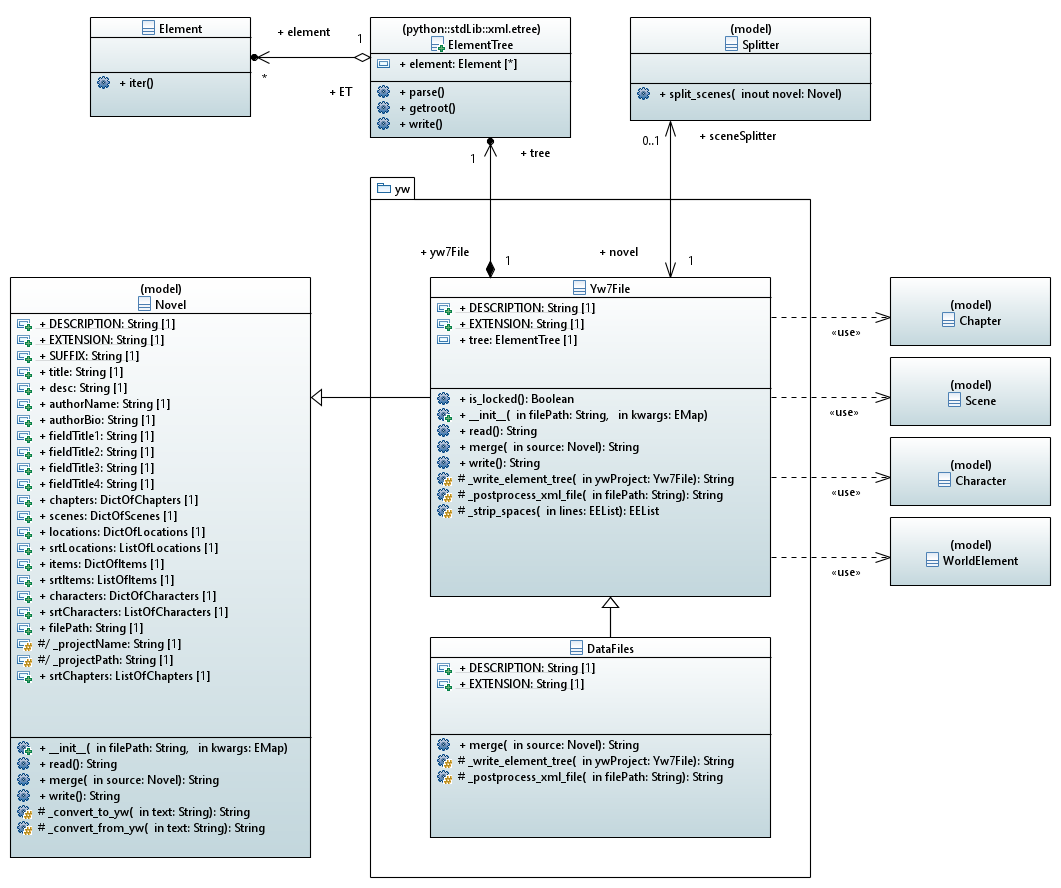
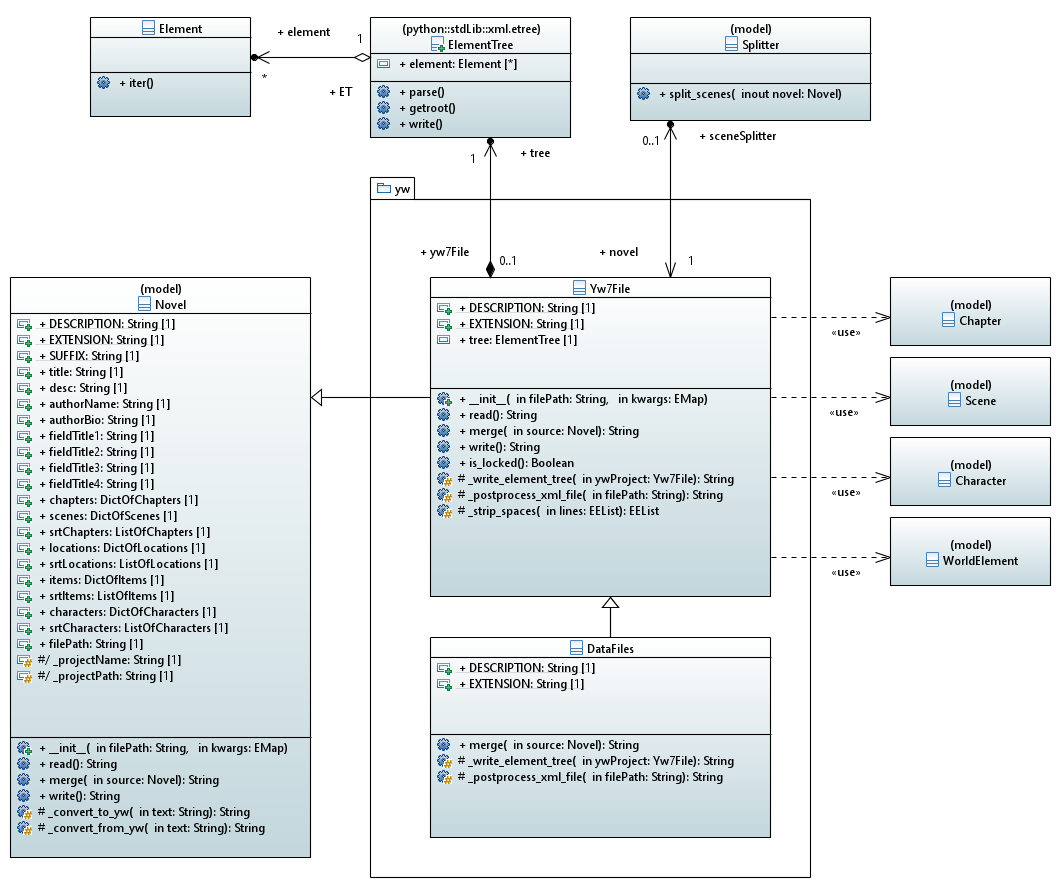
Update docstrings and UML model

Changed region(s): [[0.0311, 0.5777, 0.2177, 0.7905], [0.4354, 0.4257, 0.6532, 0.5473]]

diff --git a/src/pywriter/model/novel.py b/src/pywriter/model/novel.py
@@ -19,18 +19,19 @@ class Novel():
     of the information included in an yWriter project file).
 
     Public methods:
-        read() -- parse the file and get the instance attributes.
-        merge(source) -- copy required attributes of the source object.
-        write() -- write selected properties to the file.
+        read() -- parse the file and get the instance variables.
+        merge(source) -- update instance variables from a source instance.
+        write() -- write instance variables to the file.
 
     Public instance variables:
         title -- title.
         desc -- description in a single string.
-        authorName -- authorName name.
-        fieldTitle1 -- field title 1.
-        fieldTitle2 -- field title 2.
-        fieldTitle3 -- field title 3.
-        fieldTitle4 -- field title 4.
+        authorName -- author's name.
+        author bio -- information about the author.
+        fieldTitle1 -- scene rating field title 1.
+        fieldTitle2 -- scene rating field title 2.
+        fieldTitle3 -- scene rating field title 3.
+        fieldTitle4 -- scene rating field title 4.
         chapters -- chapter instances per ID.
         scenes -- scene instances per ID.
         srtChapters -- the novel's sorted chapter IDs.

diff --git a/src/pywriter/yw/yw7_file.py b/src/pywriter/yw/yw7_file.py
@@ -25,12 +25,12 @@ class Yw7File(Novel):
     """yWriter 7 project file representation.
 
     Public methods: 
-        read() -- Parse the file and store selected properties.
-        merge(novel) -- Copy required attributes of the novel instance.
-        write() -- Write selected properties to the file.
-        is_locked() -- Check whether the yw7 file is locked by yWriter.
+        read() -- parse the yWriter xml file and get the instance variables.
+        merge(source) -- update instance variables from a source instance.
+        write() -- write instance variables to the yWriter xml file.
+        is_locked() -- check whether the yw7 file is locked by yWriter.
 
-    Additional attributes:
+    Public instance variables:
         tree -- xml element tree of the yWriter project
     """
 
@@ -902,7 +902,7 @@ class Yw7File(Novel):
         return 'yWriter project data updated or created.'
 
     def write(self):
-        """Write instance variables to the file.
+        """Write instance variables to the yWriter xml file.
         
         Open the yWriter xml file located at filePath and replace the instance variables 
         not being None. Create new XML elements if necessary.
